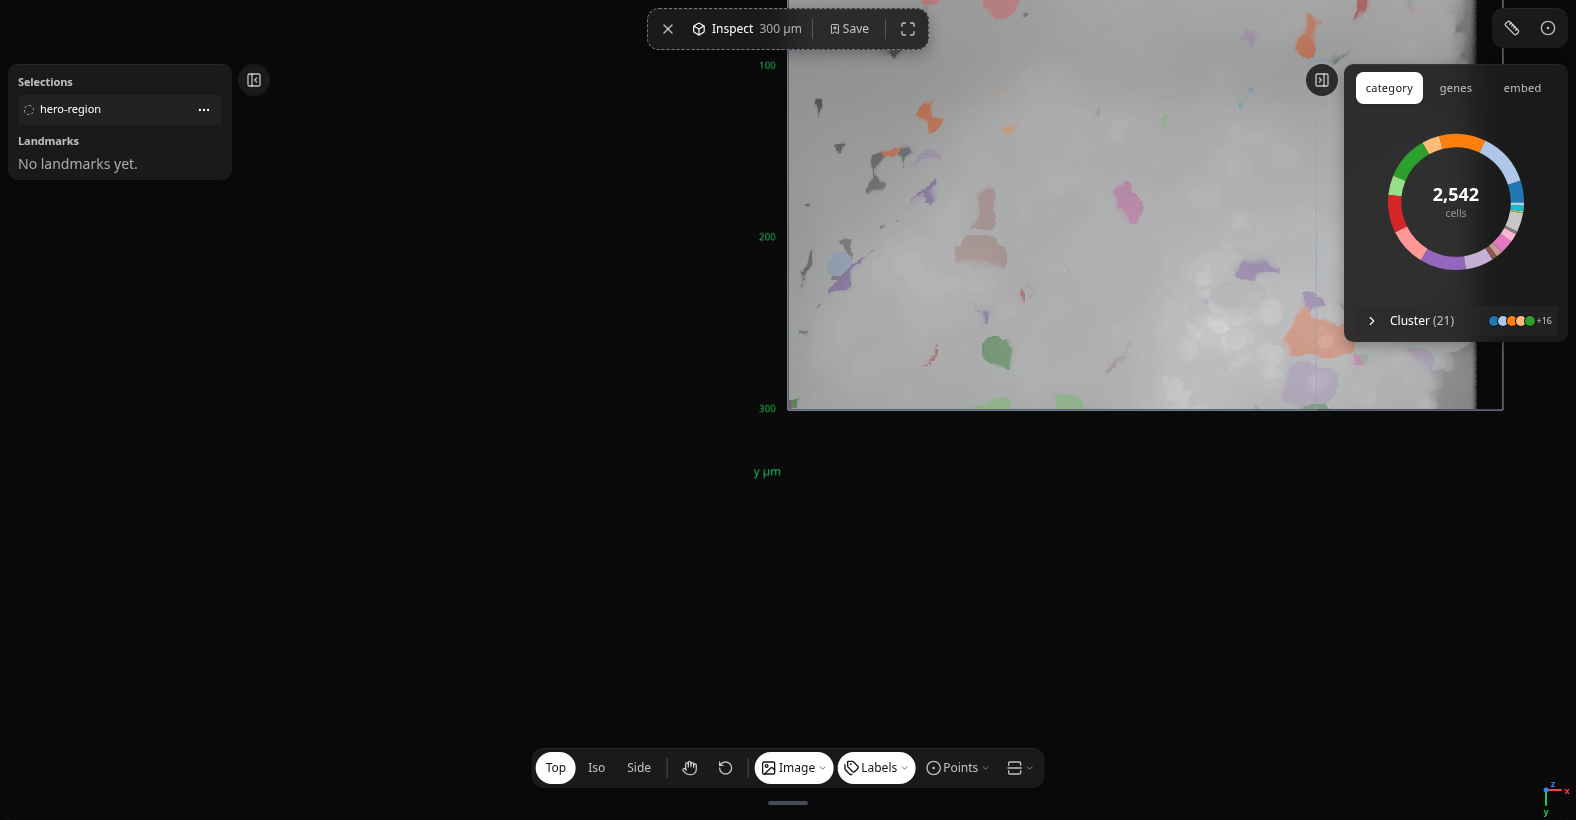
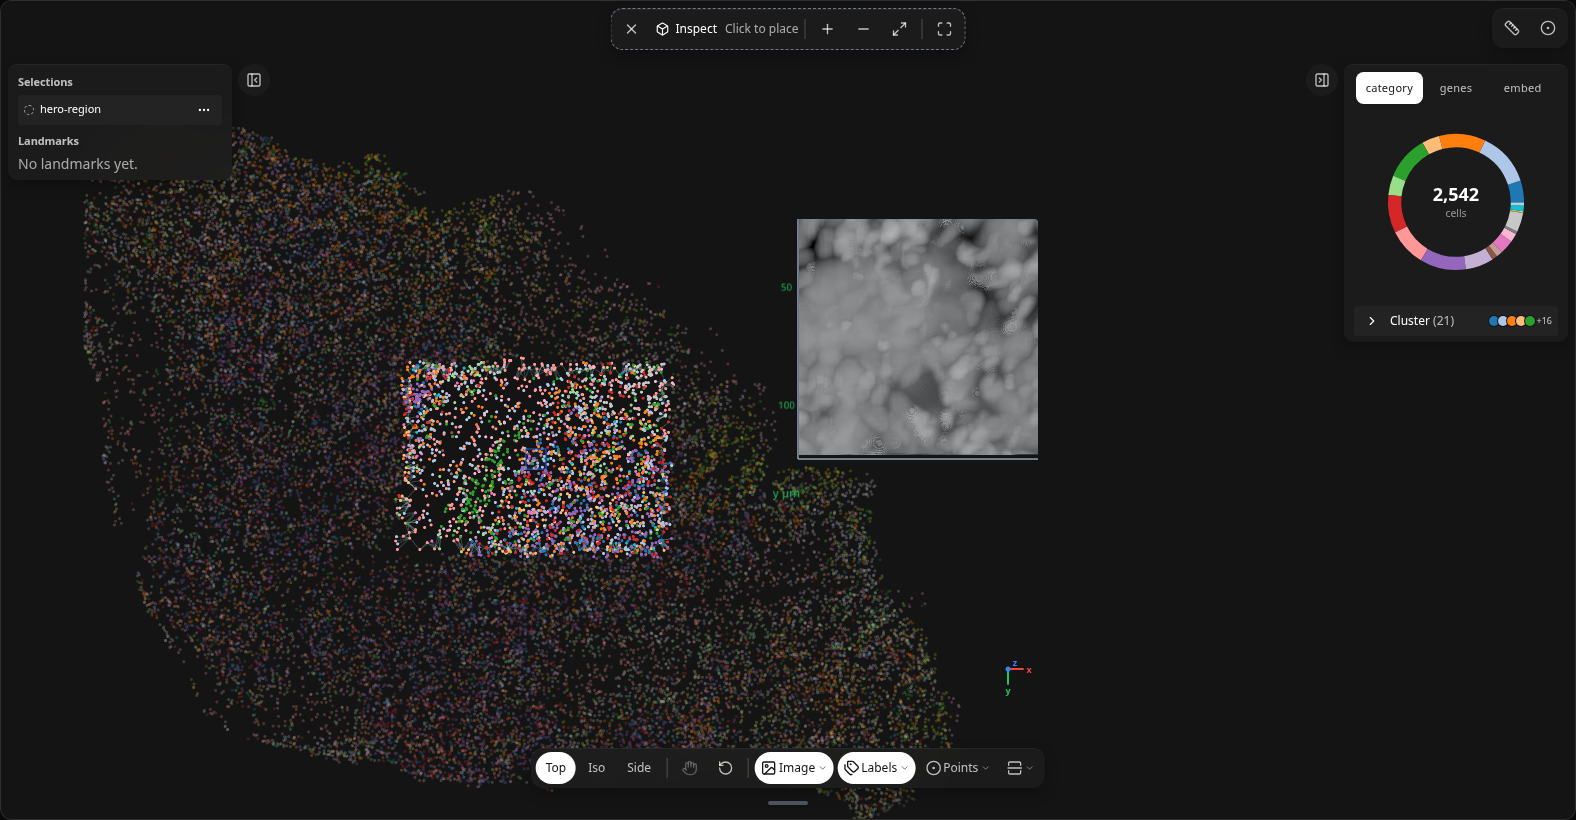
Reshoot colon A2 README heroes with map fit and Inspect preview
Tune the capture harness to fit the colon map, keep hero-region kNN focus
dimming, and hold the hover preview through the screenshot. Regenerate
light and dark 1600x900 assets from the existing UI (contrast 40–255).

diff --git a/scripts/export-colon-a2-volume-hero.py b/scripts/export-colon-a2-volume-hero.py
@@ -21,7 +21,6 @@ ROOT = Path(__file__).resolve().parents[1]
 sys.path.insert(0, str(ROOT))
 
 from milume import LandmarksWidget  # noqa: E402
-from milume.volume_source import image_contrast_limits  # noqa: E402
 
 DEV = ROOT / "frontend" / "dev"
 PUBLIC = DEV / "landmarks-volume" / "public"
@@ -164,6 +163,10 @@ def _hero_selection(widget: LandmarksWidget, sdata) -> None:
             "type": "polygon",
             "vertices": vertices,
             "point_indices": point_indices,
+            # kNN neighborhood on so focused selection dims points outside the region.
+            "neighborhood": "knn",
+            "neighborhood_k": 12,
+            "neighborhood_radius": 0,
         },
     ]
     widget.selected_kind = "selection"
@@ -181,9 +184,12 @@ def write_fixture(sdata, *, cells: int | None, hero: bool) -> None:
         idx = rng.choice(table.n_obs, size=cells, replace=False)
         sdata.tables["rna"] = table[idx].copy()
 
-    image_key = next(iter(sdata.images))
-    contrast = image_contrast_limits(sdata.images[image_key])
-    widget = LandmarksWidget(sdata, color="Cluster", contrast_limits=contrast, genes=[])
+    widget = LandmarksWidget(
+        sdata,
+        color="Cluster",
+        contrast_limits=(40.0, 255.0),
+        genes=[],
+    )
     widget.set_render_mode("points")
     widget.mode = "select"
     widget.landmarks = []
